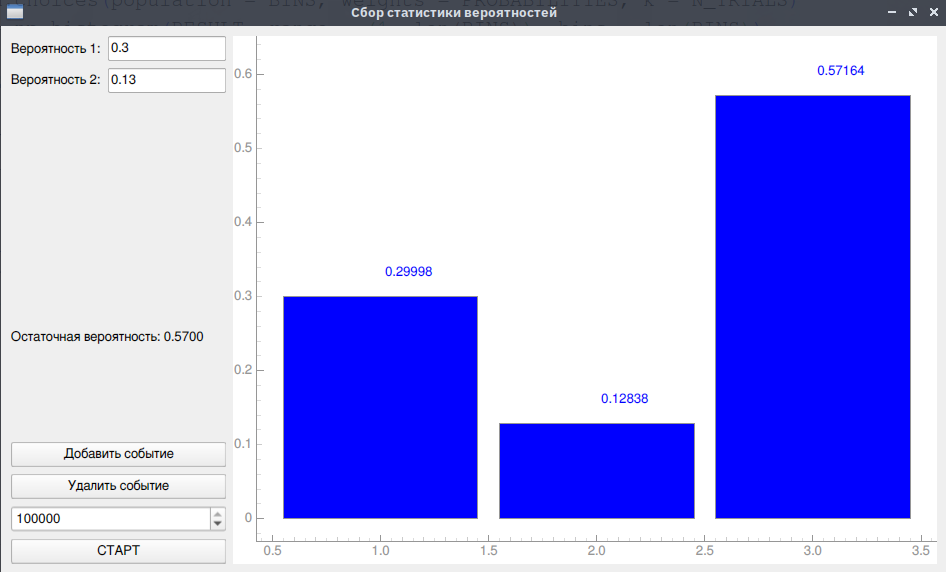
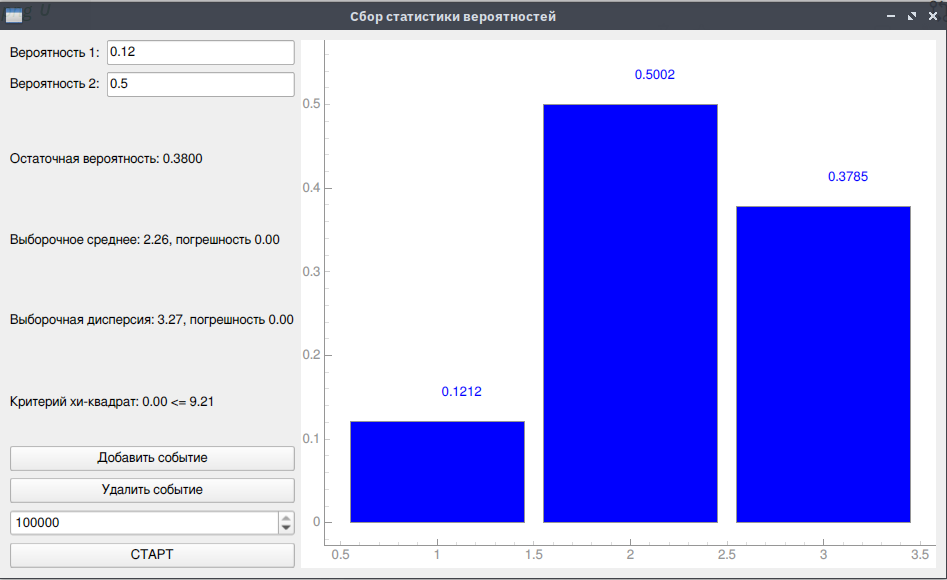
Добавлена лаб. 9

diff --git a/83_9.py b/83_9.py
@@ -1,6 +1,7 @@
 import sys
 import random
 import numpy as np
+import scipy.stats
 from PyQt6.QtCore import QSize, Qt
 from PyQt6.QtWidgets import (
     QApplication,
@@ -38,6 +39,16 @@ class MainWindow(QMainWindow):
         # remainder probability
         self.remainder_probability_label = QLabel("Остаточная вероятность: ")
         settings.addWidget(self.remainder_probability_label)
+
+        # mean and standard deviation
+        self.mean_label = QLabel("Выборочное среднее: ")
+        settings.addWidget(self.mean_label)
+        self.stdev_label = QLabel("Выборочная дисперсия: ")
+        settings.addWidget(self.stdev_label)
+
+        # chi squared
+        self.chi_label = QLabel("Критерий хи-квадрат: ")
+        settings.addWidget(self.chi_label)
 
         # add button
         add_event_button = QPushButton("Добавить событие")
@@ -106,15 +117,36 @@ class MainWindow(QMainWindow):
         # generate numbers and collect statistics
         RESULT = random.choices(population = BINS, weights = PROBABILITIES, k = N_TRIALS)
         STATISTICS, _ = np.histogram(RESULT, range = (1, len(BINS)), bins = len(BINS))
-        FREQUENCY = [stat/N_TRIALS for stat in STATISTICS]
-        print(BINS, FREQUENCY)
-        self.draw(BINS, FREQUENCY)
+        FREQUENCIES = [stat/N_TRIALS for stat in STATISTICS]
+        print(BINS, FREQUENCIES)
+        self.calc(FREQUENCIES, PROBABILITIES, N_TRIALS)
+        self.chisq(FREQUENCIES, PROBABILITIES, N_TRIALS)
+        self.draw(BINS, FREQUENCIES)
+
+    def calc(self, DATA, THEORY, N_TRIALS):
+        MEAN = sum(x*p for x,p in enumerate(THEORY, 1))
+        EMP_MEAN = sum(x*p for x,p in enumerate(DATA, 1))
+        MEAN_ERROR = np.abs((MEAN - EMP_MEAN) / MEAN)
+        self.mean_label.setText(f"Выборочное среднее: {EMP_MEAN:.2f}, погрешность {MEAN_ERROR:.2f}")
+
+        ST_DEV = np.abs(sum(p*x**2 for x,p in enumerate(THEORY, 1)) - MEAN)
+        EMP_DEV = np.abs(sum(p*x**2 for x,p in enumerate(DATA, 1)) - EMP_MEAN)
+        DEV_ERROR = np.abs((ST_DEV - EMP_DEV) / ST_DEV)
+        self.stdev_label.setText(f"Выборочная дисперсия: {EMP_DEV:.2f}, погрешность {DEV_ERROR:.2f}")
+    
+    def chisq(self, DATA, THEORY, N_TRIALS):
+        CHI = sum((observed - expected)**2 / expected for observed,expected in zip(DATA, THEORY))
+        CHI_CRITICAL = scipy.stats.chi2.ppf(1-0.01, df = len(DATA)-1)
+        
+        self.chi_label.setText(f"Критерий хи-квадрат: {CHI:.2f} {">" if CHI > CHI_CRITICAL else "<="} {CHI_CRITICAL:.2f}")
+
+
     def draw(self, x, y):
         self.graph.clear()
         hist = QtGraph.BarGraphItem(x = x, height = y, width = 0.9, brush='b')
         self.graph.addItem(hist)
         for index, _ in enumerate(x):
-            text = QtGraph.TextItem(f'{y[index]}', color='b')
+            text = QtGraph.TextItem(f'{y[index]:.4f}', color='b')
             text.setPos(x[index],y[index]+0.05)
             self.graph.addItem(text)
     def ping(self):

diff --git a/README.md b/README.md
@@ -1,6 +1,8 @@
-# Лабораторная №8
+# Лабораторная №8, 9
 8.1 Генератор ответов да/нет
 8.2 Генератор ответов шара судьбы
 8.3 Сбор статистики вероятностей
+9 Моделирование с оценкой методом хи-квадрат
 ![alt text](image.png)
+![alt text](image-2.png)
 ![alt text](image-1.png)
